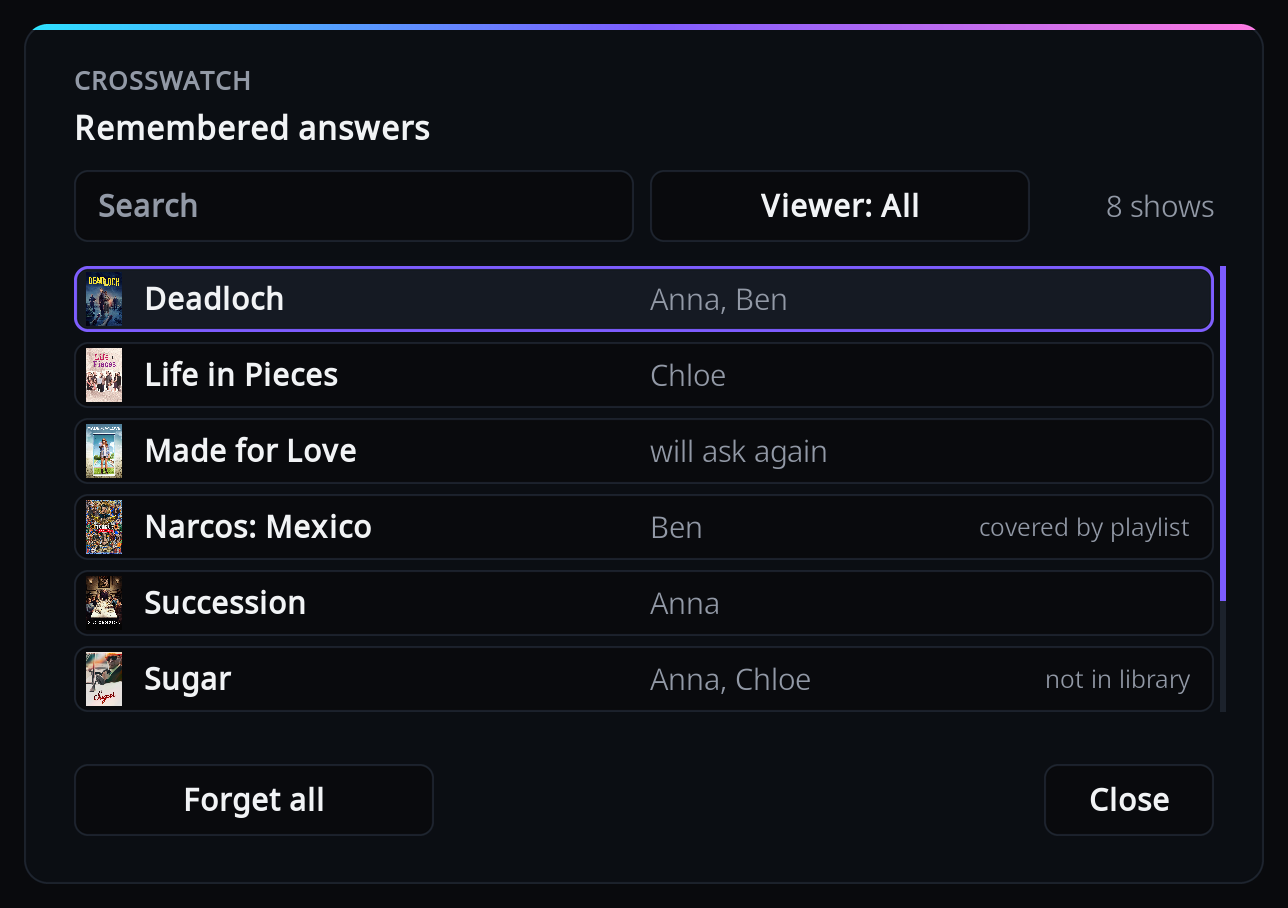
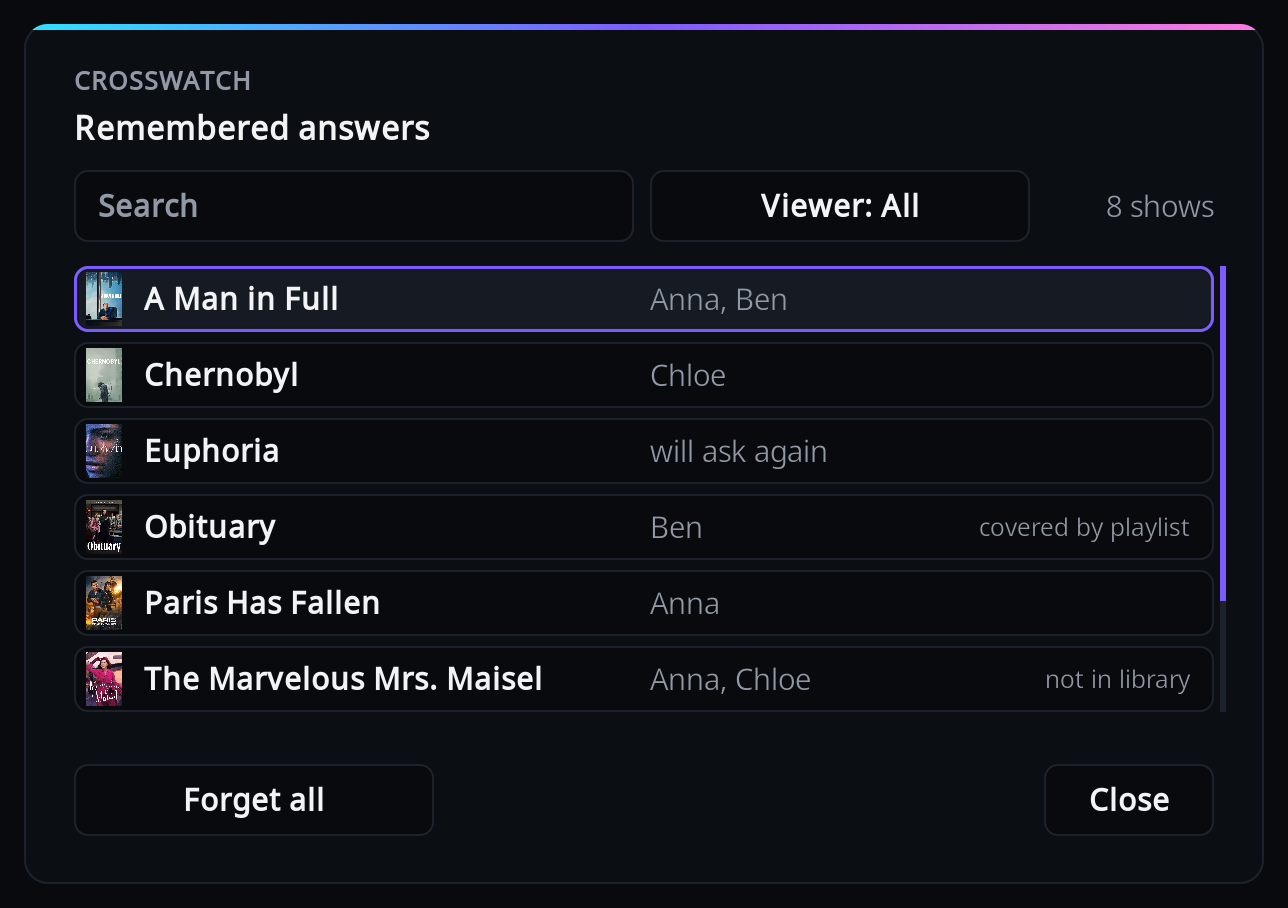
Describe the viewer windows and capture them
README covers the viewer list, the viewer window, profiles picked from
Kodi, Rename and Remove and what they do to remembered answers, and
saving at once. New screenshot scenes for the viewer list and the
profile picker.

Viewers have no artwork, so the viewer list drops the thumbnail column
and starts its names at the left instead of showing an empty poster
box on every row; a list of shows keeps its posters.

Changed region(s): [[0.0621, 0.2775, 0.4348, 0.8018]]

diff --git a/docker/scripts/screenshot_helper/default.py b/docker/scripts/screenshot_helper/default.py
@@ -62,6 +62,12 @@ def _list(scene: dict, path: str) -> None:
     if scene.get("rows") == "playlists":
         _pick(scene, path)
         return
+    if scene.get("rows") == "viewers":
+        _viewers(scene, path)
+        return
+    if scene.get("rows") == "profiles":
+        _profiles(scene, path)
+        return
     with open(os.path.join(HERE, "library.json"), encoding="utf-8") as handle:
         shows = json.load(handle)["shows"]
     rows = tuple(
@@ -135,6 +141,51 @@ def _pick(scene: dict, path: str) -> None:
 def _confirm(scene: dict, path: str) -> None:
     dialog = window.ConfirmDialog(window.CONFIRM_XML, path, "Default", "1080i")
     dialog.prepare(scene["heading"], scene["message"], TARGET.getLocalizedString)
+    try:
+        dialog.doModal()
+    finally:
+        dialog.stop()
+
+
+def _viewers(scene: dict, path: str) -> None:
+    from resources.lib.ui import list_window as lw
+
+    text = TARGET.getLocalizedString
+    details = {
+        "Anna": text(30059),
+        "Ben": text(30056).replace("%s", "3") + ", " + text(30105),
+        "Chloe": text(30104),
+    }
+    tags = {"Ben": text(30057).replace("%s", "1")}
+    rows = tuple(lw.ListRow(key=n, title=n, detail=details[n], tag=tags.get(n, "")) for n in ("Anna", "Ben", "Chloe"))
+    add = text(30048)
+    request = lw.ListRequest(
+        heading=text(30010), rows=rows, count_one=text(30102), count_all=text(30103),
+        bulk_all=add, bulk_shown=add, bulk_always=True, thumbs=False,
+    )
+    dialog = window.ListDialog(window.LIST_XML, path, "Default", "1080i")
+    dialog.prepare(request, lw.ListState(search=scene["search"]), text)
+    try:
+        dialog.doModal()
+    finally:
+        dialog.stop()
+
+
+def _profiles(scene: dict, path: str) -> None:
+    from resources.lib.ui import list_window as lw
+
+    text = TARGET.getLocalizedString
+    rows = (
+        lw.ListRow(key="Master user", title="Master user"),
+        lw.ListRow(key="Kids", title="Kids", detail=text(30098).replace("%s", "Ben")),
+        lw.ListRow(key="Old profile", title="Old profile", tag=text(30058)),
+    )
+    request = lw.ListRequest(
+        heading=text(30114).replace("%s", "Anna"), rows=rows, count_one=text(30105), count_all=text(30106),
+        pick=True, ticked=("Kids", "Old profile"),
+    )
+    dialog = window.PickListDialog(window.LIST_XML, path, "Default", "1080i")
+    dialog.prepare(request, lw.ListState(), text)
     try:
         dialog.doModal()
     finally:

diff --git a/tests/test_skin_xml.py b/tests/test_skin_xml.py
@@ -184,6 +184,7 @@ def test_the_close_label_comes_from_a_property_so_a_pick_list_can_say_cancel():
 
 
 PICK = "String.IsEqual(Window.Property(CW.Pick),true)"
+NO_THUMBS = "String.IsEqual(Window.Property(CW.NoThumbs),true)"
 
 
 def test_a_pick_list_has_an_accent_done_button_where_the_bulk_button_sits():
@@ -218,7 +219,7 @@ def test_pick_rows_show_a_tick_and_hide_the_thumbnail():
         assert len(ticks) == 1 and ticks[0].findtext("visible") == "String.IsEqual(ListItem.Property(chosen),true)"
         assert (ticks[0].findtext("width"), ticks[0].findtext("height")) == ("48", "48")
         thumbs = [i for i in images if "thumb" in (i.findtext("texture") or "") or "poster_empty" in (i.findtext("texture") or "")]
-        assert thumbs and all(i.findtext("visible") == f"!{PICK}" for i in thumbs)
+        assert thumbs and all(i.findtext("visible") == f"!{PICK} + !{NO_THUMBS}" for i in thumbs)
         chosen = [i for i in images if (i.findtext("texture") or "").startswith("crosswatch/box_chosen")]
         assert chosen
 
@@ -259,3 +260,13 @@ def test_the_viewer_window_buttons_sit_in_one_row_starting_on_playlists():
     labels = [VIEWER_PLAYLISTS, VIEWER_PROFILES, VIEWER_RENAME, VIEWER_REMOVE, LABEL_BACK]
     assert [b.findtext("label") for b in buttons] == [f"$ADDON[{ADDON_ID} {i}]" for i in labels]
     VIEWER.read_text(encoding="ascii")
+
+
+def test_a_list_without_artwork_starts_its_titles_at_the_left():
+    root = ET.parse(LIST).getroot()
+    for layout in ("itemlayout", "focusedlayout"):
+        found = root.find(f".//control[@id='100']/{layout}")
+        assert found is not None
+        titles = [c for c in found.findall("control") if c.findtext("label") == "$INFO[ListItem.Label]"]
+        bare = [t for t in titles if t.findtext("visible") == f"!{PICK} + {NO_THUMBS}"]
+        assert len(bare) == 1 and bare[0].findtext("left") == "28"

diff --git a/tests/test_ui_window.py b/tests/test_ui_window.py
@@ -687,3 +687,19 @@ def test_back_leaves_the_viewer_window_with_no_action():
     dialog.onInit()
     dialog.onAction(Action(92))
     assert dialog.result is None and dialog.close_reason == "back"
+
+
+def test_a_list_without_artwork_hides_the_thumbnail_column():
+    request = ListRequest(heading="Viewers", rows=SHOWS, count_one="1", count_all="%s", thumbs=False)
+    dialog: Any = ListDialog("crosswatch-list.xml", "/addon", "Default", "1080i")
+    dialog.prepare(request, START, lambda i: LIST_TEXTS.get(i, ""))
+    dialog.set_control(LIST_ROWS, FakeRows())
+    dialog.set_control(LIST_SEARCH, FakeEdit())
+    dialog.onInit()
+    assert dialog.getProperty("CW.NoThumbs") == "true"
+
+
+def test_a_list_with_artwork_keeps_the_thumbnail_column():
+    dialog, _, _ = _list()
+    dialog.onInit()
+    assert dialog.getProperty("CW.NoThumbs") == ""

diff --git a/resources/lib/ui/window.py b/resources/lib/ui/window.py
@@ -301,7 +301,11 @@ class ListDialog(CrossWatchDialog):
         self._shown: list[lw.ListRow] = []
         self.configure(
             localised,
-            {"CW.Heading": request.heading, "CW.Close": localised(WINDOW_CLOSE)},
+            {
+                "CW.Heading": request.heading,
+                "CW.Close": localised(WINDOW_CLOSE),
+                "CW.NoThumbs": "" if request.thumbs else "true",
+            },
             autoclose_seconds=0,
             close_on_playback=False,
             is_playing=lambda: False,

diff --git a/resources/lib/ui/list_window.py b/resources/lib/ui/list_window.py
@@ -54,6 +54,8 @@ class ListRequest:
     bulk_shown: str = ""
     # The bulk button acts on the screen, not on the rows shown, so it stays with none.
     bulk_always: bool = False
+    # False for rows that never have artwork: the thumbnail column is dropped, not left empty.
+    thumbs: bool = True
     # A pick list: OK ticks a row in place, Done returns every ticked key.
     pick: bool = False
     ticked: tuple[str, ...] = ()

diff --git a/tests/test_viewer_config.py b/tests/test_viewer_config.py
@@ -420,6 +420,7 @@ def test_the_list_shows_every_viewer_with_add_viewer_always_available(tmp_path):
     assert [r.key for r in request.rows] == ["anna", "bob"]
     assert request.bulk_always and request.bulk_all == f"#{VIEWERS_ADD}" and request.filters == ()
     assert request.heading == f"#{VIEWERS_HEADING}"
+    assert not request.thumbs
 
 
 def test_opening_a_viewer_shows_their_window_and_back_returns_to_the_list(tmp_path):

diff --git a/resources/lib/viewer_config.py b/resources/lib/viewer_config.py
@@ -417,6 +417,7 @@ def run_dialog(kodi: KodiApi, store: ViewerStore, memory: PromptMemory) -> None:
             bulk_all=add,
             bulk_shown=add,
             bulk_always=True,
+            thumbs=False,
         )
         result = kodi.list_window(request, state)
         state = result.state

diff --git a/README.md b/README.md
@@ -191,7 +191,8 @@ it is fixed: that viewer falls through to profile matching and the end-of-playba
 ### Kodi profile
 
 If the active Kodi profile is one of a viewer's profiles (the name match ignores case), that
-viewer is credited. Profiles are entered comma separated under "Edit Kodi profiles".
+viewer is credited. Profiles are picked from Kodi's own list under the viewer's "Profiles"
+button (see "Viewer list" below).
 
 ### The question at the end
 
@@ -273,14 +274,48 @@ should describe what that person watches, not what they just happened to play.
 
 ### Viewer list
 
-"Configure viewers and playlists" lists the viewers, with "Add viewer" to add one. Adding a
-viewer asks for its name ("Viewer name, as CrossWatch routes it"), then which playlists are
-theirs. Each viewer in the list offers Edit playlists, Edit Kodi profiles and Remove viewer.
+"Configure viewers and playlists" opens a CrossWatch window titled "Viewers" that lists every
+viewer. Each row shows the viewer's name and what is set up ("2 playlists, 1 profile", "1
+playlist" or "nothing set up"). When something needs fixing, the row also carries a tag such
+as "1 missing" or "1 unusable". A count shows how many viewers are listed ("3 viewers"), and a
+search box narrows the list by name. Below the list are "Add viewer", which is always
+available (also when a search finds nobody), and "Close". With no viewers configured yet, the
+screen starts straight at Add viewer.
 
-Edit playlists, and the playlist step of Add viewer, open a CrossWatch window titled
-"Playlists for <viewer name>". It lists Kodi's smart playlists of TV shows or films. Press OK
-on a playlist to tick or untick it; the viewer's current playlists start ticked. "Done" keeps
-the ticked playlists. "Cancel" or Back leaves the viewer's playlists exactly as they were.
+Every change is saved straight away, so there is no need to close the screen, and it applies
+from the next playback.
+
+"Add viewer" asks for the viewer's name ("Viewer name, as CrossWatch routes it"), then which
+playlists are theirs (the playlist window, described below), then opens that viewer's window.
+
+OK on a viewer opens their window. It shows the viewer's name, a summary line "Playlists: ..."
+and a line "Profiles: ..." (each reads "none" when empty), and the buttons "Playlists",
+"Profiles", "Rename", "Remove" and "Back". After each action the window comes back with the
+updated summary; Back returns to the list.
+
+"Profiles" opens a window titled "Profiles for <name>" that lists Kodi's profiles. The list
+comes from Kodi itself, so nothing is typed. Press OK on a profile to tick or untick it; the
+viewer's current profiles start ticked. "Done" keeps the ticked profiles. "Cancel" or Back
+leaves them as they were. A profile the viewer has that Kodi no longer has is listed last,
+ticked, tagged "missing". A profile that another viewer already has shows "Also <names>". If
+Kodi's profiles cannot be read, a message says so ("Kodi's profiles could not be read. Try
+again in a moment.") and nothing changes.
+
+"Rename" opens Kodi's keyboard with the current name filled in. A name that another viewer
+already has is refused and nothing changes; changing only the upper and lower case of the
+viewer's own name is allowed. The viewer's remembered answers move to the new name. Change the
+username whitelist of the CrossWatch route to the new name too, or that route stops receiving
+this viewer's playback.
+
+"Remove" first asks in a CrossWatch window titled "Remove <name>?": "Remembered answers lose
+this name. A show nobody else is remembered for is asked again." No is preselected. Yes
+removes the viewer and takes their name out of every remembered answer. An answer that is left
+with nobody is forgotten, so that show is asked about again at the end of its next episode.
+
+"Playlists", and the playlist step of Add viewer, open a CrossWatch window titled "Playlists
+for <viewer name>". It lists Kodi's smart playlists of TV shows or films. Press OK on a
+playlist to tick or untick it; the viewer's current playlists start ticked. "Done" keeps the
+ticked playlists. "Cancel" or Back leaves the viewer's playlists exactly as they were.
 
 A search box at the top narrows the list by playlist name: press OK on it, type with Kodi's
 keyboard and confirm. A ticked playlist the search hides stays ticked and is kept when you
@@ -362,14 +397,14 @@ that still exists.
 
 **A playlist shows as unusable**
 
-The playlist is not a TV show or film playlist, so it can never credit anyone. It is not
-listed in the picker, so there is nothing to untick: open Edit playlists for that viewer and
-press Done to remove it, or change the playlist's type in Kodi to shows or films. The
-viewer's other playlists keep working in the meantime.
+The playlist is not a TV show or film playlist, so it can never credit anyone. It is not listed
+in the picker, so there is nothing to untick: open that viewer's "Playlists" and press Done to
+remove it, or change the playlist's type in Kodi to shows or films. The viewer's other
+playlists keep working in the meantime.
 
-If Kodi has no TV show or film smart playlists at all, Edit playlists shows the "Kodi has no
-smart playlists of TV shows or films yet" message instead of the list, so Done is not
-available. In that case, make a TV show or film smart playlist (Edit playlists then opens, and
+If Kodi has no TV show or film smart playlists at all, the viewer's "Playlists" shows the "Kodi
+has no smart playlists of TV shows or films yet" message instead of the list, so Done is not
+available. In that case, make a TV show or film smart playlist ("Playlists" then opens, and
 Done removes the unusable one), change the unusable playlist's type in Kodi to shows or films,
 or remove the viewer and add them again.
 
